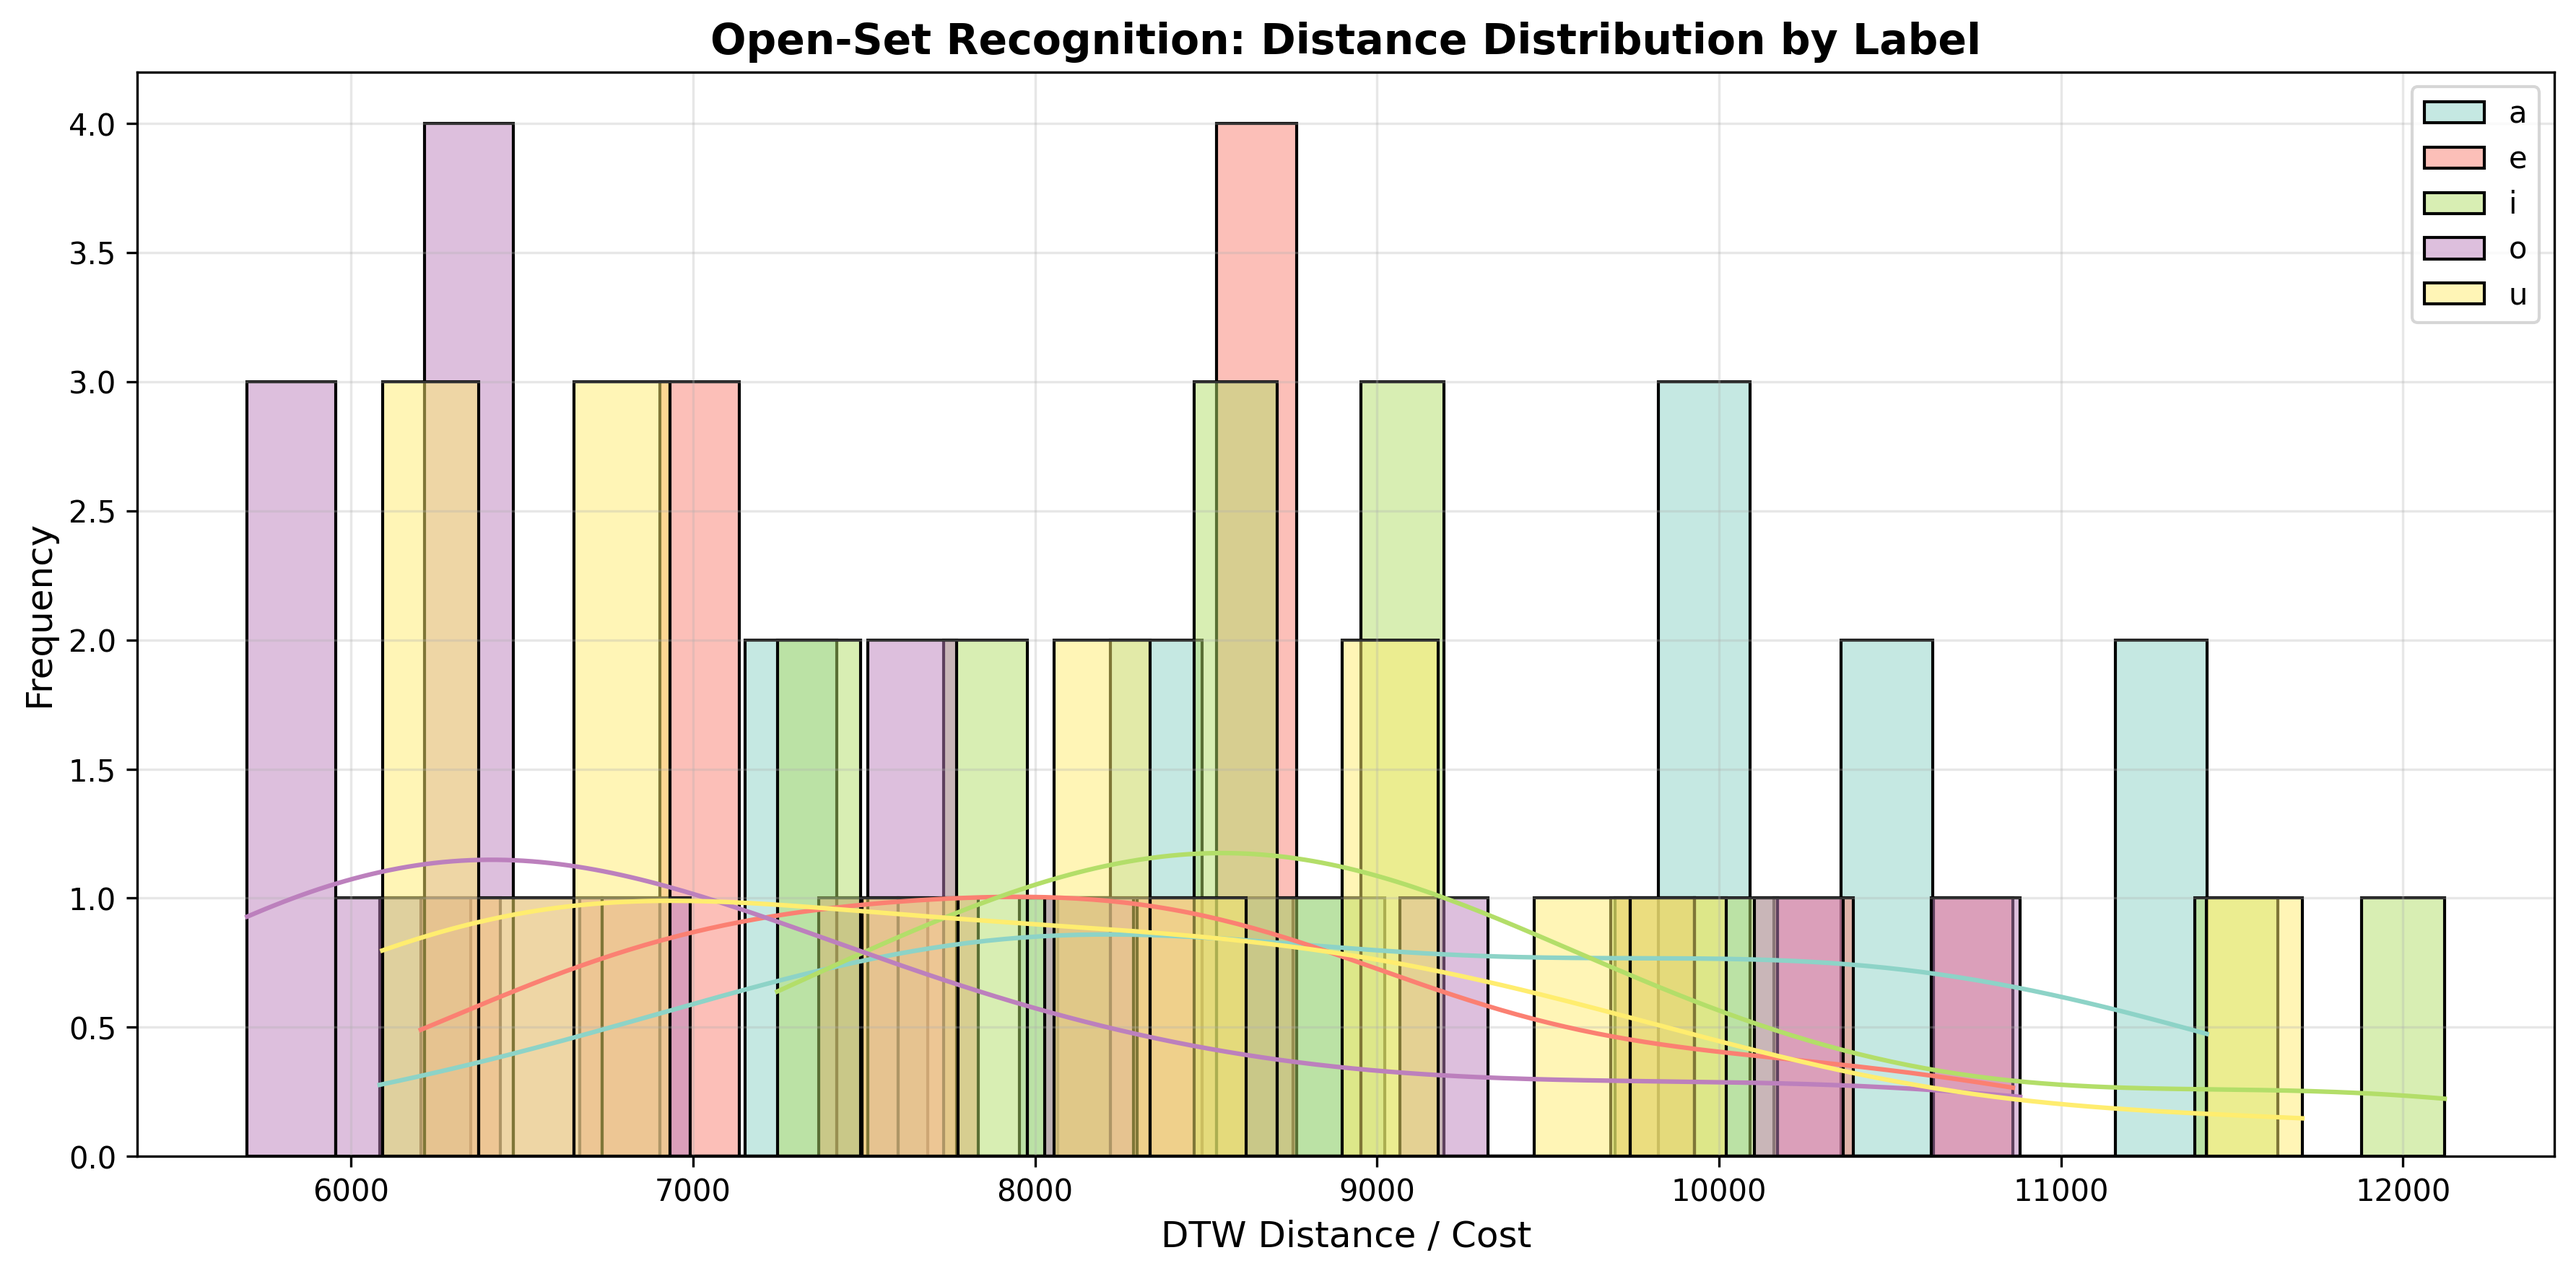
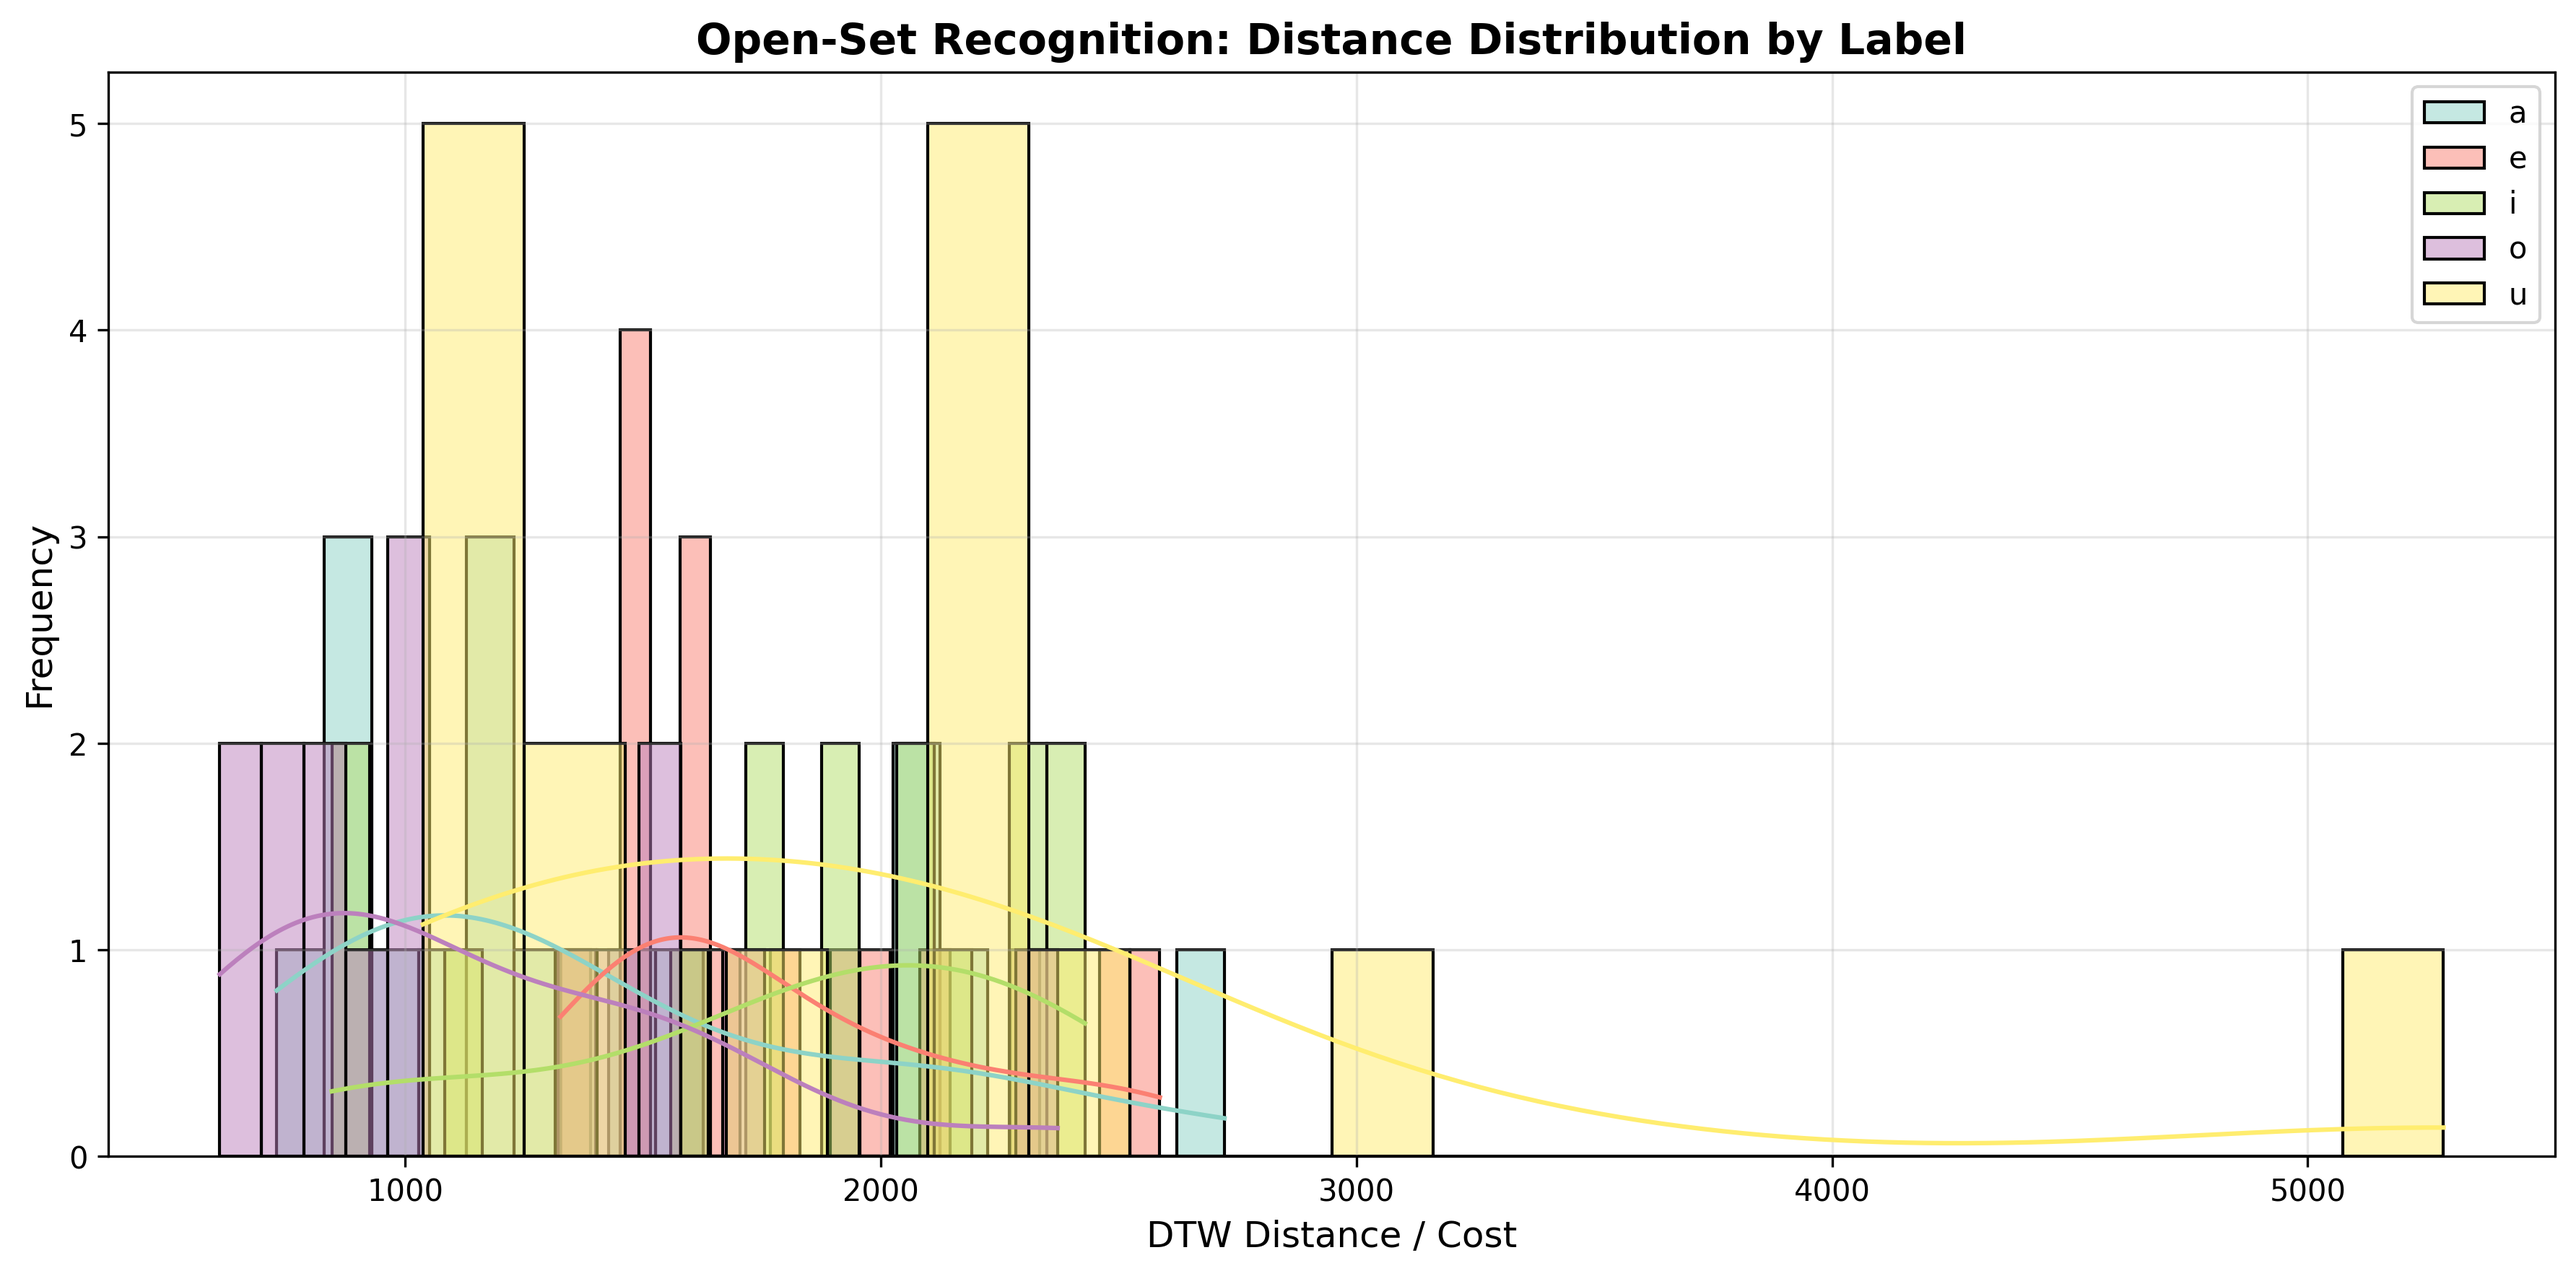
feat: trim silence from audio
Trim silence from audio for much better accuracy with librosa.effects.trim(signal, top_db=3)

diff --git a/dtw_recognizer.py b/dtw_recognizer.py
@@ -77,6 +77,7 @@ class DTWRecognizer:
         """
         Extract 39D MFCC features (13 MFCC + Δ + ΔΔ) from audio file
         Supports multiple audio formats: WAV, MP3, FLAC, M4A, OGG
+        Trims silence from the start and end of the audio before feature extraction
         
         Args:
             audio_file: Path to audio file (various formats supported)
@@ -87,6 +88,10 @@ class DTWRecognizer:
         try:
             # Auto-resample to 16kHz for consistency
             signal, sample_rate = librosa.load(audio_file, sr=self.sampling_rate, mono=True)
+            
+            # Trim silence from the start and end of the audio
+            # top_db parameter controls the threshold (higher = more aggressive trimming)
+            signal, _ = librosa.effects.trim(signal, top_db=3)
             
             # Convert to int16 for compatibility with python-speech-features
             signal = (signal * 32767).astype(np.int16)
